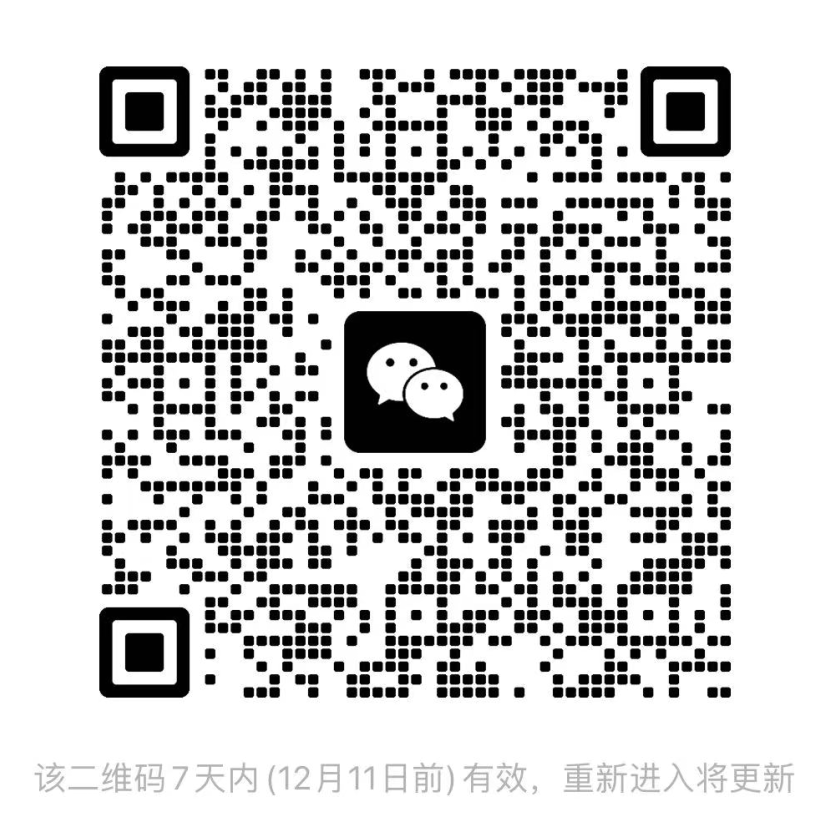
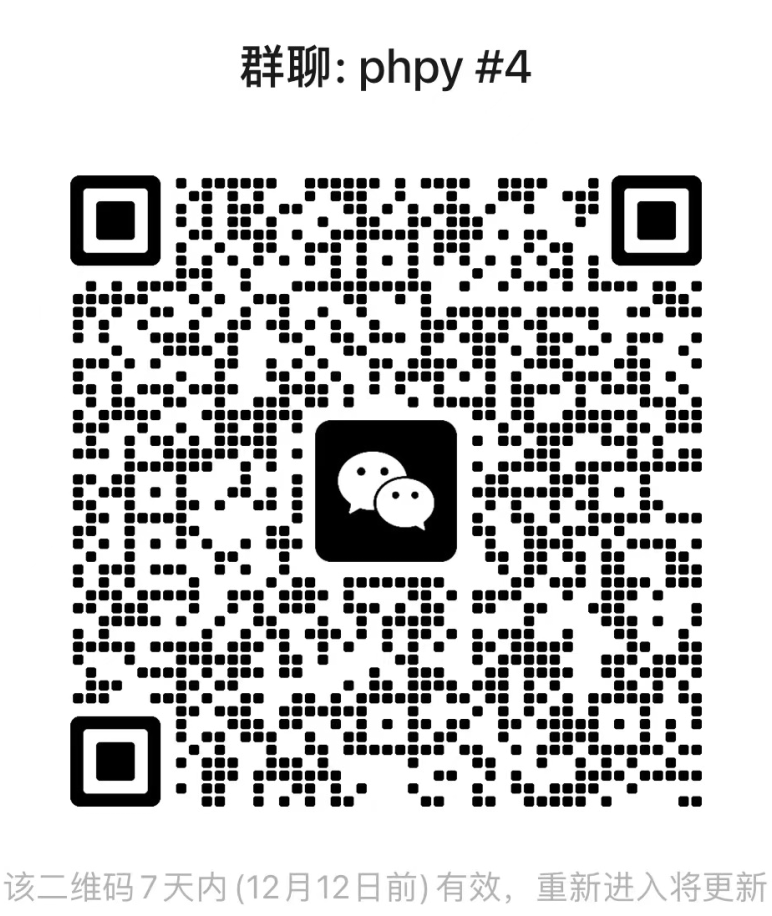
修改微信群，修复缺少embed编译错误的问题

diff --git a/src/python/module.cc b/src/python/module.cc
@@ -16,7 +16,6 @@
  */
 
 #include "phpy.h"
-#include <sapi/embed/php_embed.h>
 #include <vector>
 
 static PyObject *phpy_call(PyObject *self, PyObject *args) {
@@ -190,6 +189,16 @@ static bool py_module_php_init(PyObject *m) {
     return true;
 }
 
+#ifdef HAVE_PHP_EMBED
+#include <sapi/embed/php_embed.h>
+PyMODINIT_FUNC PyInit_phpy(void) {
+    char program_name[] = "phpy";
+    char *argv[] = {program_name};
+    php_embed_init(1, argv);
+    return py_module_create(true);
+}
+#endif
+
 PyObject *py_module_create(bool py_module) {
     auto m = PyModule_Create(&php_module);
 
@@ -214,9 +223,3 @@ PyObject *py_module_create(bool py_module) {
     return m;
 }
 
-PyMODINIT_FUNC PyInit_phpy(void) {
-    char program_name[] = "phpy";
-    char *argv[] = {program_name};
-    php_embed_init(1, argv);
-    return py_module_create(true);
-}
